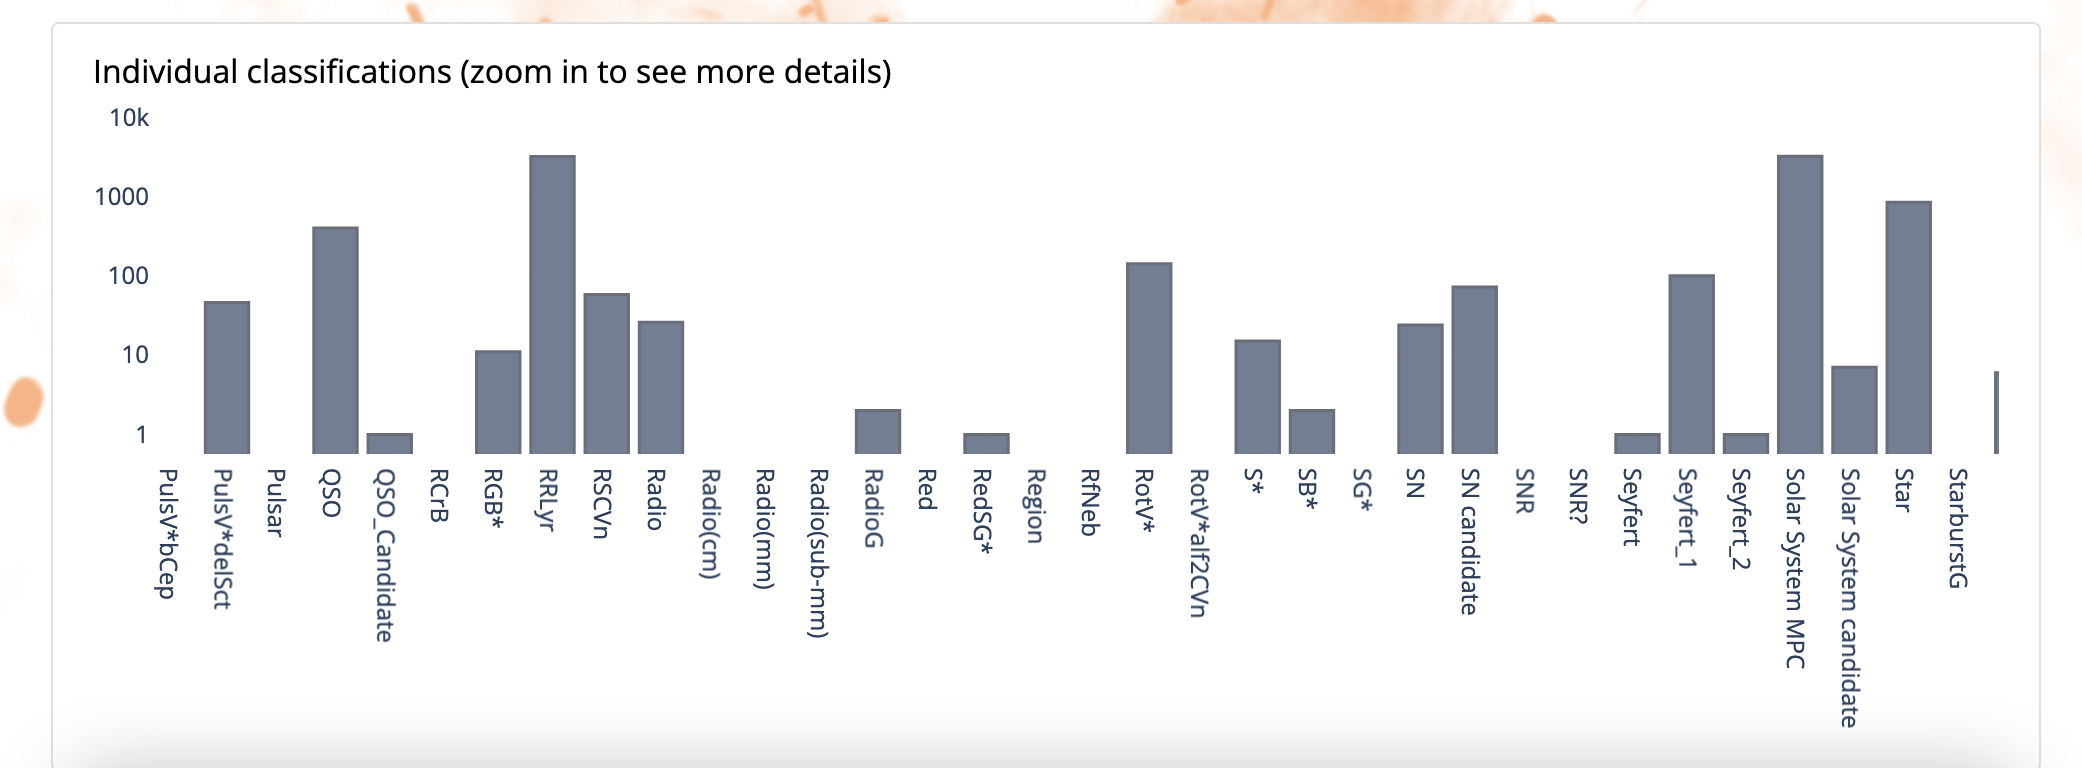
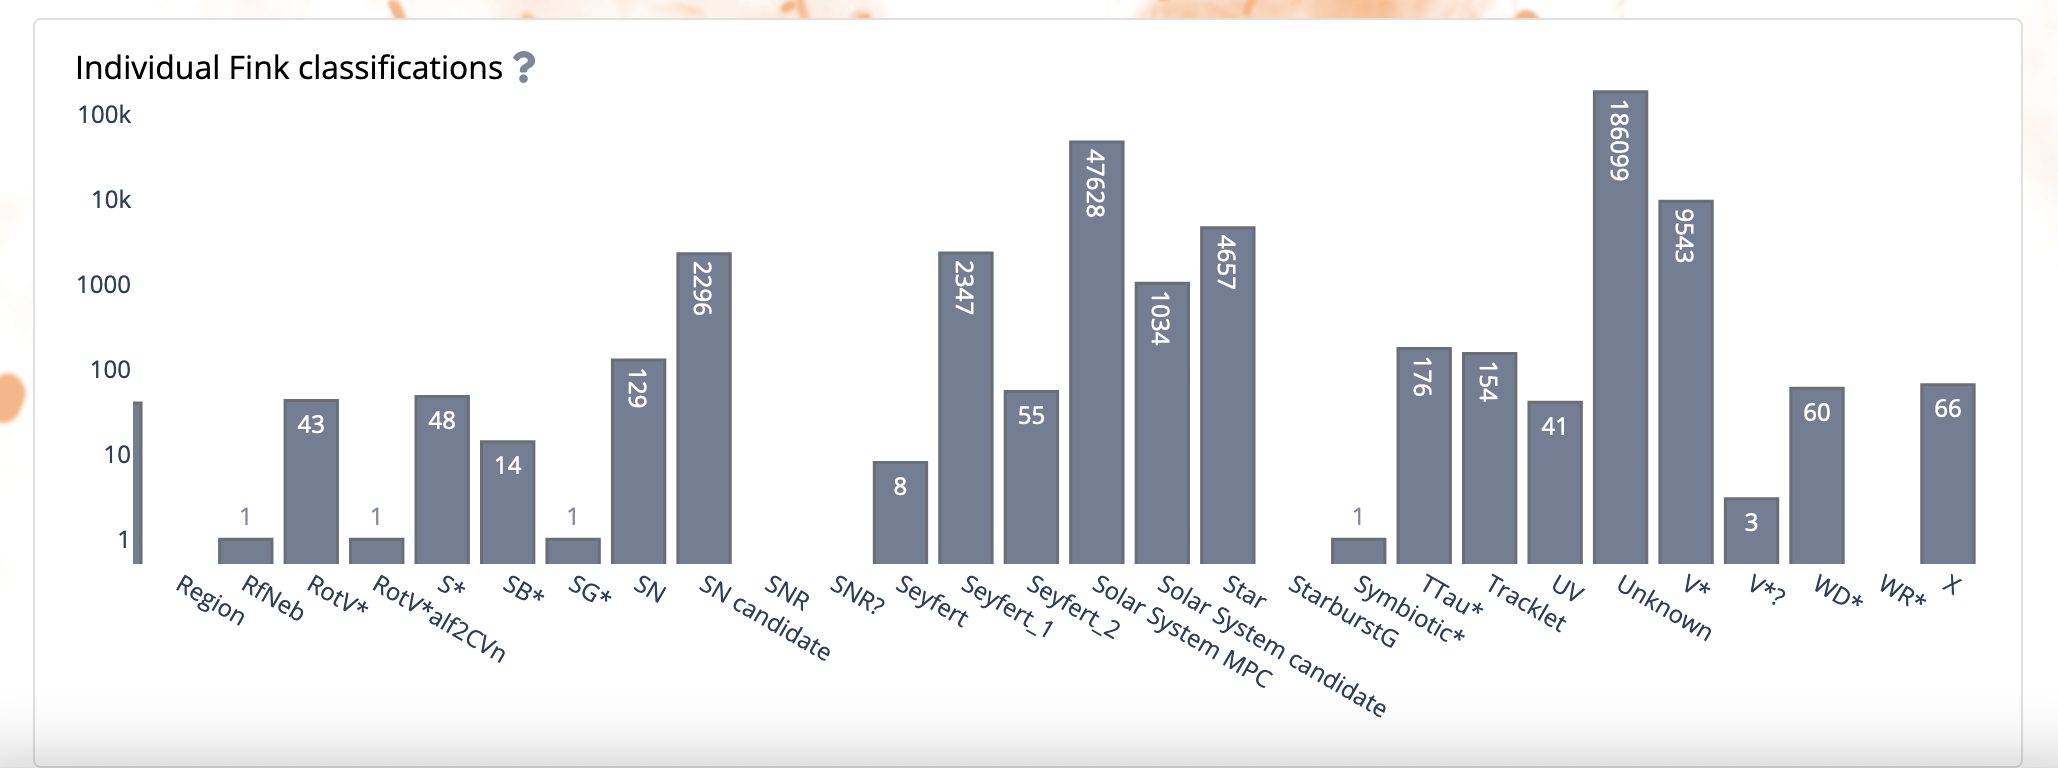
Update stat post

diff --git a/docs/2021-12-01-statistics/index.html b/docs/2021-12-01-statistics/index.html
@@ -178,7 +178,7 @@ audio {
 <h1>Fink data statistics</h1>
 
 
-<i data-feather="calendar"></i> <time datetime="2021-12-01">Dec 1, 2021</time>
+<i data-feather="calendar"></i> <time datetime="2021-12-02">Dec 2, 2021</time>
 
   <br>
   <i data-feather="tag"></i>
@@ -208,6 +208,8 @@ a high number of processed alerts.</p>
 <li>External catalogs: Number of alerts that have a counterpart either in the MPC catalog or in the SIMBAD database.</li>
 <li>Selected candidates: Number of alerts for a subset of classes: early type Ia supernova (SN Ia), supernovae or core-collapse (SNe), Kilonova, or Solar System candidates.</li>
 </ul>
+<p>You get help about the content by hovering the [?]:</p>
+<p><img src="/images/2c-stat.png" width="50%" height="50%" style="display: block; margin: auto;" /></p>
 <p>By default, we show the last observing night. You can change the night by using the dropdown button:</p>
 <p><img src="/images/2b-stat.png" width="100%" height="100%" style="display: block; margin: auto;" /></p>
 <p>The second row shows the number of alerts for all labels in Fink (from classifiers or crossmatch):</p>
@@ -223,6 +225,9 @@ processed alerts per night, since the beginning of operations:</p>
 <p>Note that you can also show the cumulative number of alerts over time by switching the button on the top right :-)</p>
 <p><img src="/images/4b-stat.png" width="100%" height="100%" style="display: block; margin: auto;" /></p>
 <p>More information about the schema in the <a href="https://fink-portal.org/stats">Help tab</a>.</p>
+<p>Finally, you can display the percentage of each class (with respect to the number of processed alerts) by switching the button <code>Percentage</code>. By combining both <code>Cumulative</code> and <code>Percentage</code>, you will see the evolution of the proportion of each class over time:</p>
+<p><img src="/images/4d-stat.png" width="100%" height="100%" style="display: block; margin: auto;" />
+<em>Evolution of the proportion of alerts classified as Early SN Ia as a function of time.</em></p>
 <h2 id="rest-api">REST API</h2>
 <p>If you want to explore more statistics, or create your own dashboard based on Fink data,
 you can do all of these yourself using the REST API. Here is an example using Python:</p>

diff --git a/docs/post/index.html b/docs/post/index.html
@@ -185,7 +185,7 @@ audio {
   <br>
   
 
-<i data-feather="calendar"></i> <time datetime="2021-12-01">Dec 1, 2021</time>
+<i data-feather="calendar"></i> <time datetime="2021-12-02">Dec 2, 2021</time>
 
   <br>
   <i data-feather="tag"></i>

diff --git a/docs/tags/portal/index.html b/docs/tags/portal/index.html
@@ -183,7 +183,7 @@ audio {
   <br>
   
 
-<i data-feather="calendar"></i> <time datetime="2021-12-01">Dec 1, 2021</time>
+<i data-feather="calendar"></i> <time datetime="2021-12-02">Dec 2, 2021</time>
 
   <br>
   <i data-feather="tag"></i>

diff --git a/docs/about/index.html b/docs/about/index.html
@@ -212,7 +212,6 @@ audio {
 </ul>
 </li>
 </ul>
-<h2 id="acknowledgment">Acknowledgment</h2>
 
 
 

diff --git a/content/post/2021-12-01-statistics.md b/content/post/2021-12-01-statistics.md
@@ -1,6 +1,6 @@
 ---
 layout: post
-date: 2021-12-01
+date: 2021-12-02
 title: Fink data statistics
 author: fink
 tags: [Portal]
@@ -34,6 +34,10 @@ The first row shows histograms for various indicators:
 - External catalogs: Number of alerts that have a counterpart either in the MPC catalog or in the SIMBAD database.
 - Selected candidates: Number of alerts for a subset of classes: early type Ia supernova (SN Ia), supernovae or core-collapse (SNe), Kilonova, or Solar System candidates.
 
+You get help about the content by hovering the [?]:
+
+<img src="/images/2c-stat.png" width="50%" height="50%" style="display: block; margin: auto;" />
+
 By default, we show the last observing night. You can change the night by using the dropdown button:
 
 <img src="/images/2b-stat.png" width="100%" height="100%" style="display: block; margin: auto;" />
@@ -62,6 +66,11 @@ Note that you can also show the cumulative number of alerts over time by switchi
 <img src="/images/4b-stat.png" width="100%" height="100%" style="display: block; margin: auto;" />
 
 More information about the schema in the [Help tab](https://fink-portal.org/stats).
+
+Finally, you can display the percentage of each class (with respect to the number of processed alerts) by switching the button `Percentage`. By combining both `Cumulative` and `Percentage`, you will see the evolution of the proportion of each class over time:
+
+<img src="/images/4d-stat.png" width="100%" height="100%" style="display: block; margin: auto;" />
+_Evolution of the proportion of alerts classified as Early SN Ia as a function of time._
 
 ## REST API
 
